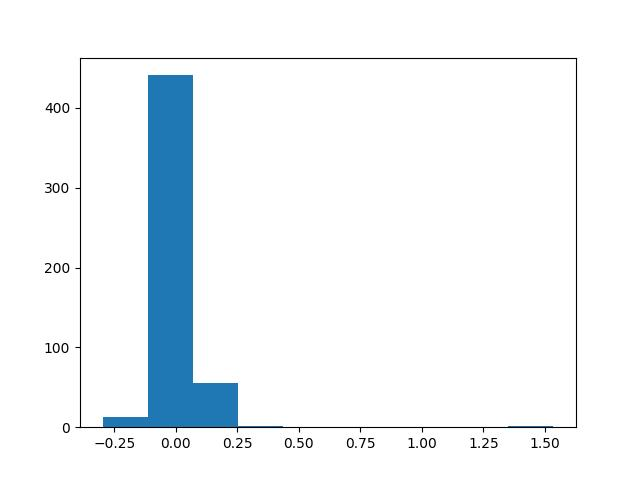
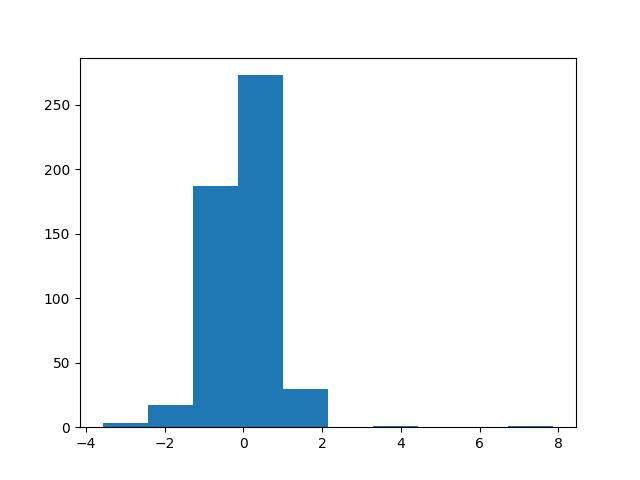
p good

diff --git a/app.py b/app.py
@@ -18,14 +18,17 @@ from diffusers import StableDiffusionXLPipeline, UNet2DConditionModel, EulerDisc
 from huggingface_hub import hf_hub_download
 from safetensors.torch import load_file
 
+device = 'cuda'
+dtype = torch.bfloat16
+
 base = "stabilityai/stable-diffusion-xl-base-1.0"
 repo = "ByteDance/SDXL-Lightning"
 ckpt = "sdxl_lightning_4step_unet.safetensors" # Use the correct ckpt for your step setting!
 
 # Load model.
-unet = UNet2DConditionModel.from_config(base, subfolder="unet").to("cuda", torch.float16)
-unet.load_state_dict(load_file(hf_hub_download(repo, ckpt), device="cuda"))
-pipe = StableDiffusionXLPipeline.from_pretrained(base, unet=unet, torch_dtype=torch.float16, variant="fp16").to("cuda")
+unet = UNet2DConditionModel.from_config(base, subfolder="unet").to(device, dtype)
+unet.load_state_dict(load_file(hf_hub_download(repo, ckpt), device=device))
+pipe = StableDiffusionXLPipeline.from_pretrained(base, unet=unet, torch_dtype=dtype, variant="fp16").to(device)
 
 # Ensure sampler uses "trailing" timesteps.
 pipe.scheduler = EulerDiscreteScheduler.from_config(pipe.scheduler.config, timestep_spacing="trailing")
@@ -34,22 +37,22 @@ pipe.scheduler = EulerDiscreteScheduler.from_config(pipe.scheduler.config, times
 
 
 
-with torch.cuda.amp.autocast(True, torch.bfloat16):
+with torch.cuda.amp.autocast(True, dtype):
     # extract eos/mean embedding
-    pixel_values = load_image(image_file='blank.png', max_num=1).cuda()
-    base_embed = model.extract_feature(pixel_values.to(torch.bfloat16)).detach().float()
+    pixel_values = load_image(image_file='blank.png', max_num=1).to(device)
+    base_embed = model.extract_feature(pixel_values.to(dtype)).detach().float()
 
 
 
 def get_text(embed):
-    with torch.cuda.amp.autocast(True, torch.bfloat16):
-        generation_config = dict(max_new_tokens=32, do_sample=False, 
+    with torch.cuda.amp.autocast(True, dtype):
+        generation_config = dict(max_new_tokens=32, do_sample=True, 
                                                     temperature=.5, top_p=.92)
 
         # single-image single-round conversation (单图单轮对话)
         pixel_values = 0
         question = '''''' # not really used # TODO & pixel_values as well
-        response = model.chat(tokenizer, pixel_values, question, generation_config, visual_features=embed.to(torch.bfloat16))
+        response = model.chat(tokenizer, pixel_values, question, generation_config, visual_features=embed.to(dtype))
         print(response)
         return response
 
@@ -57,10 +60,10 @@ def get_image(text):
     return pipe(text, num_inference_steps=4, guidance_scale=0).images[0]
 
 def get_embed(img):
-    with torch.cuda.amp.autocast(True, torch.bfloat16):
+    with torch.cuda.amp.autocast(True, dtype):
         # extract eos/mean embedding
-        pixel_values = load_image(image_file='', pil_image=img, max_num=1).cuda()
-        embed = model.extract_feature(pixel_values.to(torch.bfloat16))
+        pixel_values = load_image(image_file='', pil_image=img, max_num=1).to(device)
+        embed = model.extract_feature(pixel_values.to(dtype))
     return embed.float()
 
 
@@ -73,12 +76,13 @@ random.shuffle(prompt_list)
 
 calibrate_prompts = [
     "4k fish",
-    'grimey surrealist horror fish',
+    'grimey surrealist horror photograph',
     'anime fish',
-    'a photo of a monster',
+    'a photo of a monster in the depths',
     'an abstract painting',
-    'an eldritch image painted on a wall',
-    'a fish photo',
+    'an eldritch being',
+    'a photo of hell',
+    'a cute monster'
     ]
 
 NOT_calibrate_prompts = [
@@ -155,18 +159,17 @@ def next_image():
                 ys_t = [ys[i] for i in indices]
                 feature_embs = torch.stack([embs[e][0, 0].detach().cpu() for e in indices]).squeeze()
 
-                # balance pos/negatives?
-                for e in indices:
-                    w = len(pos_indices) / len(neg_indices)
-                    feature_embs[e] = feature_embs[e] * w if ys_t[e] > .5 else feature_embs[e] * (1-w)
-                    # if w < 1:
-                    #     feature_embs *= -1
+                # # balance pos/negatives?
+                # for e in indices:
+                #     nw = (len(indices) / len(neg_indices))
+                #     w = (len(indices) / len(pos_indices))
+                #     feature_embs[e] = feature_embs[e] * w if ys_t[e] > .5 else feature_embs[e] * nw
                 
-                if len(pos_indices) > 8:
-                   to_drop = pos_indices.pop(0)
-                   ys.pop(to_drop)
-                   embs.pop(to_drop)
-                   print('\n\n\ndropping\n\n\n')
+                # if len(pos_indices) > 8:
+                #    to_drop = pos_indices.pop(0)
+                #    ys.pop(to_drop)
+                #    embs.pop(to_drop)
+                #    print('\n\n\ndropping\n\n\n')
                 # elif len(neg_indices) > 8:
                 #    to_drop = neg_indices.pop(0)
                 #    ys.pop(to_drop)
@@ -180,22 +183,22 @@ def next_image():
                 
                 print(np.array(feature_embs).shape, np.array(ys_t).shape)
             
-            # sol = SVC(kernel='linear', C=10, class_weight='balanced').fit(np.array(feature_embs), np.array(torch.tensor(ys_t).unsqueeze(1).float())).coef_
-            sol = torch.linalg.lstsq(torch.tensor(ys_t).unsqueeze(1).float() * 2 - 1, torch.tensor(feature_embs).float(),).solution
-
+            # sol = LogisticRegression().fit(np.array(feature_embs), np.array(torch.tensor(ys_t).unsqueeze(1).float() * 2 - 1)).coef_
+            # sol = torch.linalg.lstsq(torch.tensor(ys_t).unsqueeze(1).float()*2-1, torch.tensor(feature_embs).float(),).solution
             # neg_sol = torch.linalg.lstsq((torch.tensor(ys_t).unsqueeze(1).float() - 1) * -1, torch.tensor(feature_embs).float()).solution
+            # sol = torch.tensor(sol, dtype=dtype).to(device)
 
 
-            # pos_sol = torch.stack([embs[i][0, 0] for i in range(len(ys_t)) if ys_t[i] > .5]).mean(0, keepdim=True)
-            # neg_sol = torch.stack([embs[i][0, 0] for i in range(len(ys_t)) if ys_t[i] < .5]).mean(0, keepdim=True)
-            # sol = 2 * (sol - neg_sol)
+            pos_sol = torch.stack([feature_embs[i] for i in range(len(ys_t)) if ys_t[i] > .5]).mean(0, keepdim=True).to(device, dtype)
+            neg_sol = torch.stack([feature_embs[i] for i in range(len(ys_t)) if ys_t[i] < .5]).mean(0, keepdim=True).to(device, dtype)
             
             # could have a base vector of a black image
-            sol = torch.tensor(sol, dtype=torch.float16).to('cuda')
+            latest_pos = random.sample([feature_embs[i] for i in range(len(ys_t)) if ys_t[i] > .5], 1).to(device, dtype)
+
+            dif = pos_sol - neg_sol
+            sol = latest_pos + ((dif / dif.std()) * latest_pos.std())
 
             print(sol.shape)
-
-            # TODO mean of positives works
             
 
             text = get_text(sol)
@@ -205,12 +208,12 @@ def next_image():
             embs.append(embed)
 
             plt.close()
-            plt.hist(sol.detach().cpu().flatten())
+            plt.hist(sol.detach().cpu().float().flatten())
             plt.savefig('sol.jpg')
 
 
             plt.close()
-            plt.hist(embed.detach().cpu().flatten())
+            plt.hist(embed.detach().cpu().float().flatten())
             plt.savefig('embed.jpg')
             
             # torch.save(sol, f'./{start_time}.pt')

diff --git a/internvl2_patches.py b/internvl2_patches.py
@@ -195,6 +195,7 @@ class InternVLChatModel(PreTrainedModel):
         #                         return_tensors="pt").to(self.vision_model.device, self.vision_model.dtype)
         vit_embeds = self.vision_model.get_image_features(pixel_values,
                 return_dict=True)
+        print(vit_embeds.shape, 'vit output')
 
         vit_embeds = vit_embeds.reshape(pixel_values.shape[0], -1, vit_embeds.shape[-1])
         return vit_embeds
